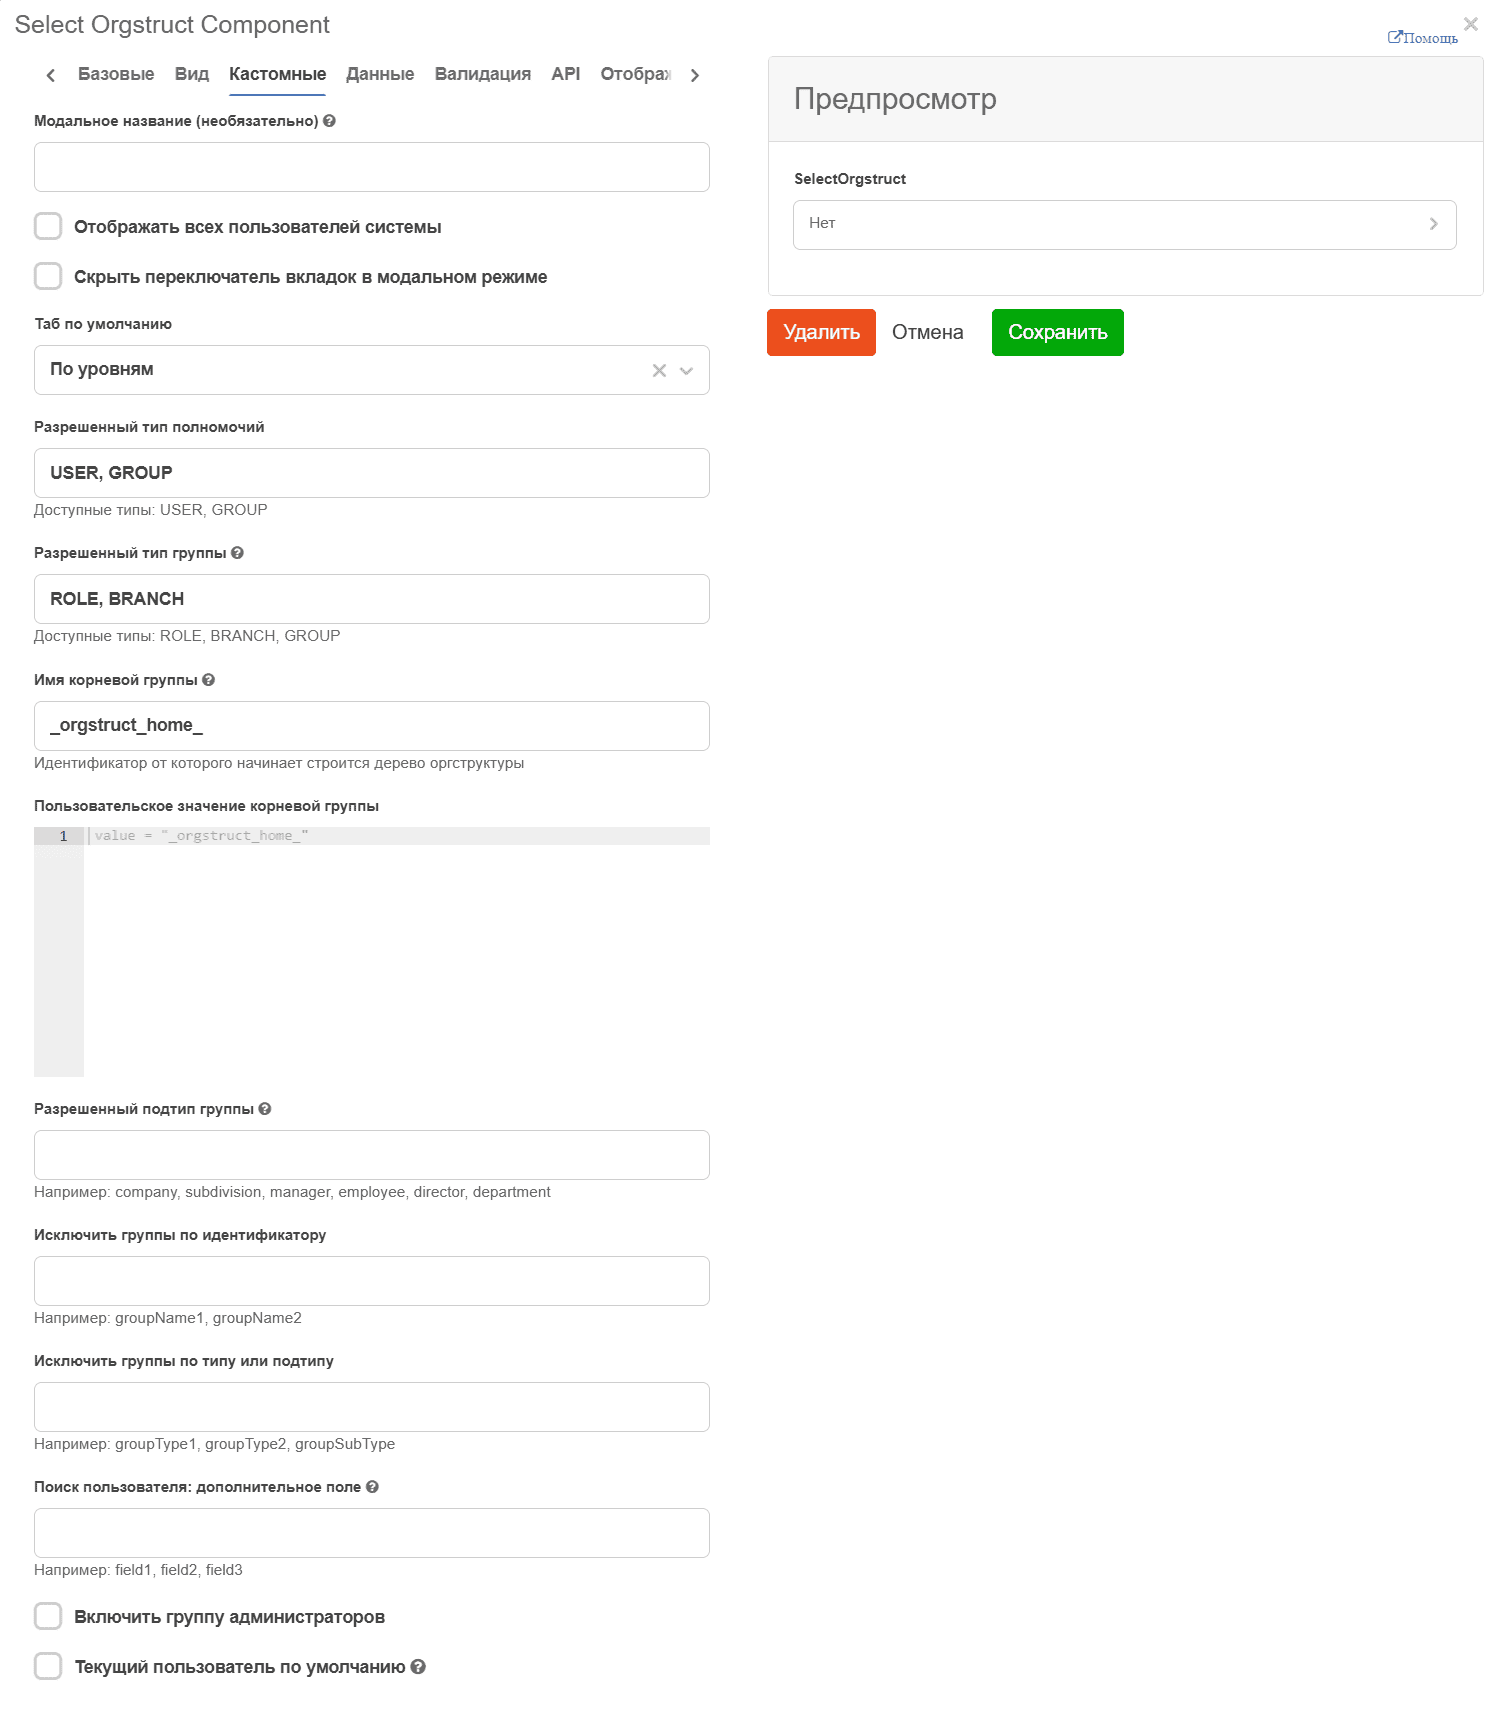
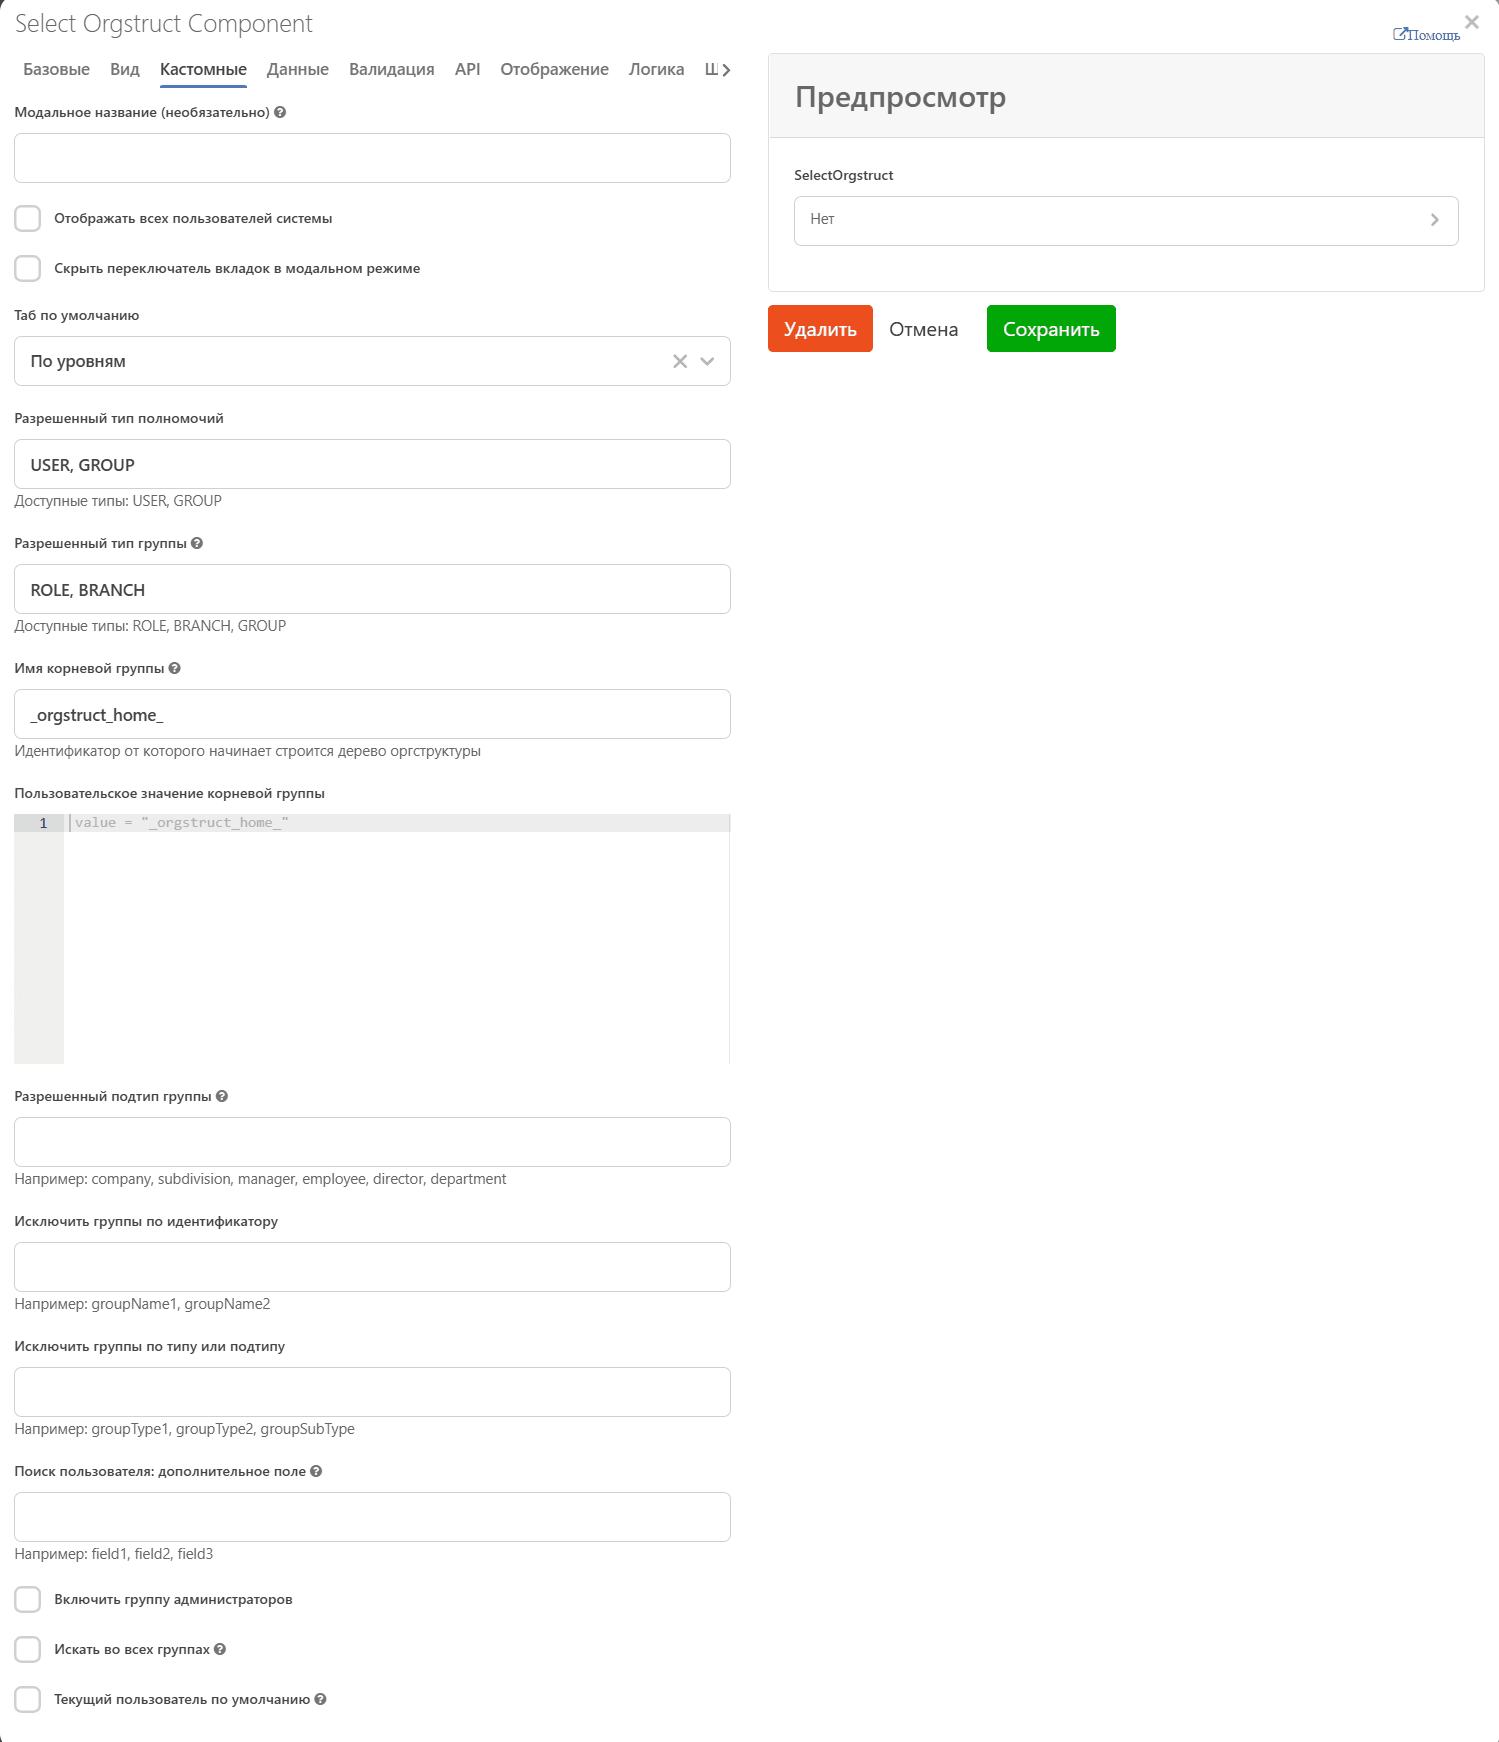
COREDEV-566
COREDEV-566 Настройка Искать во всех группах

diff --git a/docs/settings_kb/interface/forms/form_components/components/select orgstruct.rst b/docs/settings_kb/interface/forms/form_components/components/select orgstruct.rst
@@ -12,7 +12,7 @@ Select orgstruct
 -----------------------------------------
 
 .. image:: _static/select_orgstruct/select_orgstruct_1.png
-       :width: 600
+       :width: 700
        :align: center
 
 **Отображать всех пользователей системы** - в компоненте во вкладке **Все пользователи** будут отображать все пользователи, а не только пользователи рабочего пространства.
@@ -23,33 +23,58 @@ Select orgstruct
        :width: 400
        :align: center
 
-**Разрешенный тип полномочий/Allowed authority type** - типы элементов, доступные до выбора. Доступные значения: **USER** - пользователи, **GROUP** - группы. Можно указать оба типа через запятую.
+**Разрешенный тип полномочий** - типы элементов, доступные до выбора. Доступные значения: **USER** - пользователи, **GROUP** - группы. Можно указать оба типа через запятую.
 
-**Разрешенный тип группы/Allowed group type** - типы групп, доступных для выбора. Работает в случае, если **Allowed authority type** содержит **GROUP**. Можно указать несколько групп через запятую.
+**Разрешенный тип группы** - типы групп, доступных для выбора. Работает в случае, если **Разрешенный тип полномочий** содержит **GROUP**. Можно указать несколько групп через запятую.
 
-**Разрешенный подтип группы/Allowed group subtype** - типы подгрупп, доступных для выбора. Можно указать несколько подгрупп через запятую. Если поле заполнено, для выбора будут доступны только те элементы, которые проходят фильтр по этому полю, остальные группы выбрать нельзя.
+**Разрешенный подтип группы** - типы подгрупп, доступных для выбора. Можно указать несколько подгрупп через запятую. Если поле заполнено, для выбора будут доступны только те элементы, которые проходят фильтр по этому полю, остальные группы выбрать нельзя.
 
 
 Скрытие групп и подгрупп
 ------------------------
 
 .. image:: _static/select_orgstruct/select_orgstruct_3.png
-       :width: 400
+       :width: 500
        :align: center
 
-**Исключить авторитеты по имени/Exclude authorities by name** -  список групп, перечисленных через запятую, для фильтрации по имени . Группы, добавленные в это поле, и все их дочерние элементы не отображаются в оргструктуре
+**Исключить группы по идентификатору** -  список групп, перечисленных через запятую, для фильтрации по имени . Группы, добавленные в это поле, и все их дочерние элементы не отображаются в оргструктуре
 
 Для того чтобы дочерние группы скрытых групп не появлялись в результатах поиска была добавлена следующая нотация:
 ``GROUP_NAME/*`` - для того чтобы убрать дочерние элементы только первого уровня
 ``GROUP_NAME/**`` - для того чтобы убрать дочерние элементы на любом уровне вложенности
 
-**Исключить авторитеты по типу или подтипу группы/Exclude authorities by group type or subtype** - список групп, перечисленных через запятую, для фильтрации по типу. Элементы, соответствующие этим типам, не отображаются в оргструктуре.
+**Исключить группы по типу или подтипу** - список групп, перечисленных через запятую, для фильтрации по типу. Элементы, соответствующие этим типам, не отображаются в оргструктуре.
+
+Поиск во всех группах
+------------------------
+
+Вкладка **Кастомные** - **«Искать во всех группах»**. По умолчанию  выключена. 
+
+.. image:: _static/select_orgstruct/select_orgstruct_8.png
+       :width: 500
+       :align: center
+
+- **Выключена** — всё как раньше: поиск находит группы и пользователей только внутри корневой группы оргструктуры (_orgstruct_home_).
+- **Включена** — поиск находит группы и пользователей по всей системе, в том числе группы, которые не входят в оргструктуру (например, системные группы или группы портала).
+
+Без ввода текста в поиск окно выбора в обоих случаях показывает дерево оргструктуры — группы вне её находятся только поиском.
+Настройка уже включена на формах:
+
+ - группы — поле «Родительские группы»;
+ - добавления участника в рабочее пространство — поле «Группы или пользователи».
+
+Например, при включенной настройке доступен поиск системных групп:
+
+.. image:: _static/select_orgstruct/select_orgstruct_9.png
+       :width: 500
+       :align: center
+
 
 Настройка полей для поиска пользователя
 -----------------------------------------
 
 .. image:: _static/select_orgstruct/select_orgstruct_4.png
-       :width: 400
+       :width: 500
        :align: center
 
 .. note::
@@ -65,7 +90,7 @@ Select orgstruct
 --------------------------------------------------
 
 .. image:: _static/select_orgstruct/select_orgstruct_7.png
-       :width: 400
+       :width: 500
        :align: center
 
 Возможность динамически задавать корневую группу в Оргструктуре, через параметр, value или условие. Например:
@@ -85,6 +110,11 @@ Select orgstruct
 
 Тип данных
 -----------
+
+.. image:: _static/select_orgstruct/select_orgstruct_10.png
+       :width: 700
+       :align: center
+
 
 Настройка **"Тип Данных"** определяет формат данных, отправляемых на сервер при сохранении формы. Доступны два режима:
 
@@ -118,7 +148,7 @@ Select orgstruct
        :width: 400
        :align: center
 
-На вкладке :guilabel:`Кастомные` **Текущий пользователь по умолчанию/Current user by default** - в случае, если флажок отмечен, по умолчанию будет установлено значение **id** текущего пользователя. Работает только для форм в режиме создания записи ('CREATE').
+На вкладке :guilabel:`Кастомные` **Текущий пользователь по умолчанию** - в случае, если флажок отмечен, по умолчанию будет установлено значение **id** текущего пользователя. Работает только для форм в режиме создания записи (CREATE).
 
 На вкладке :guilabel:`Данные` в разделе **Пользовательские значения по умолчанию**:
 
